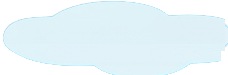
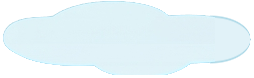
Smooth right cloud edge naturally and slow down cloud drift speed by 25%

diff --git a/style.css b/style.css
@@ -963,23 +963,23 @@ body {
 
 .clock-cloud.cloud-1 {
   top: 7.8%;
-  width: 16.57%;
-  aspect-ratio: 228 / 75;
-  animation: cloud-1-drift 46s linear infinite;
+  width: 18.46%;
+  aspect-ratio: 254 / 78;
+  animation: cloud-1-drift 62s linear infinite;
 }
 
 .clock-cloud.cloud-2 {
   top: 4.6%;
-  width: 13.8%;
-  aspect-ratio: 228 / 75;
+  width: 15%;
+  aspect-ratio: 254 / 78;
   opacity: 0.9;
-  animation: cloud-2-drift 46s linear infinite;
-  animation-delay: -23s;
+  animation: cloud-2-drift 62s linear infinite;
+  animation-delay: -31s;
 }
 
 @keyframes cloud-1-drift {
   0% {
-    transform: translate3d(620%, 0, 0);
+    transform: translate3d(560%, 0, 0);
   }
   100% {
     transform: translate3d(-120%, 0, 0);
@@ -988,7 +988,7 @@ body {
 
 @keyframes cloud-2-drift {
   0% {
-    transform: translate3d(740%, 0, 0);
+    transform: translate3d(680%, 0, 0);
   }
   100% {
     transform: translate3d(-120%, 0, 0);
